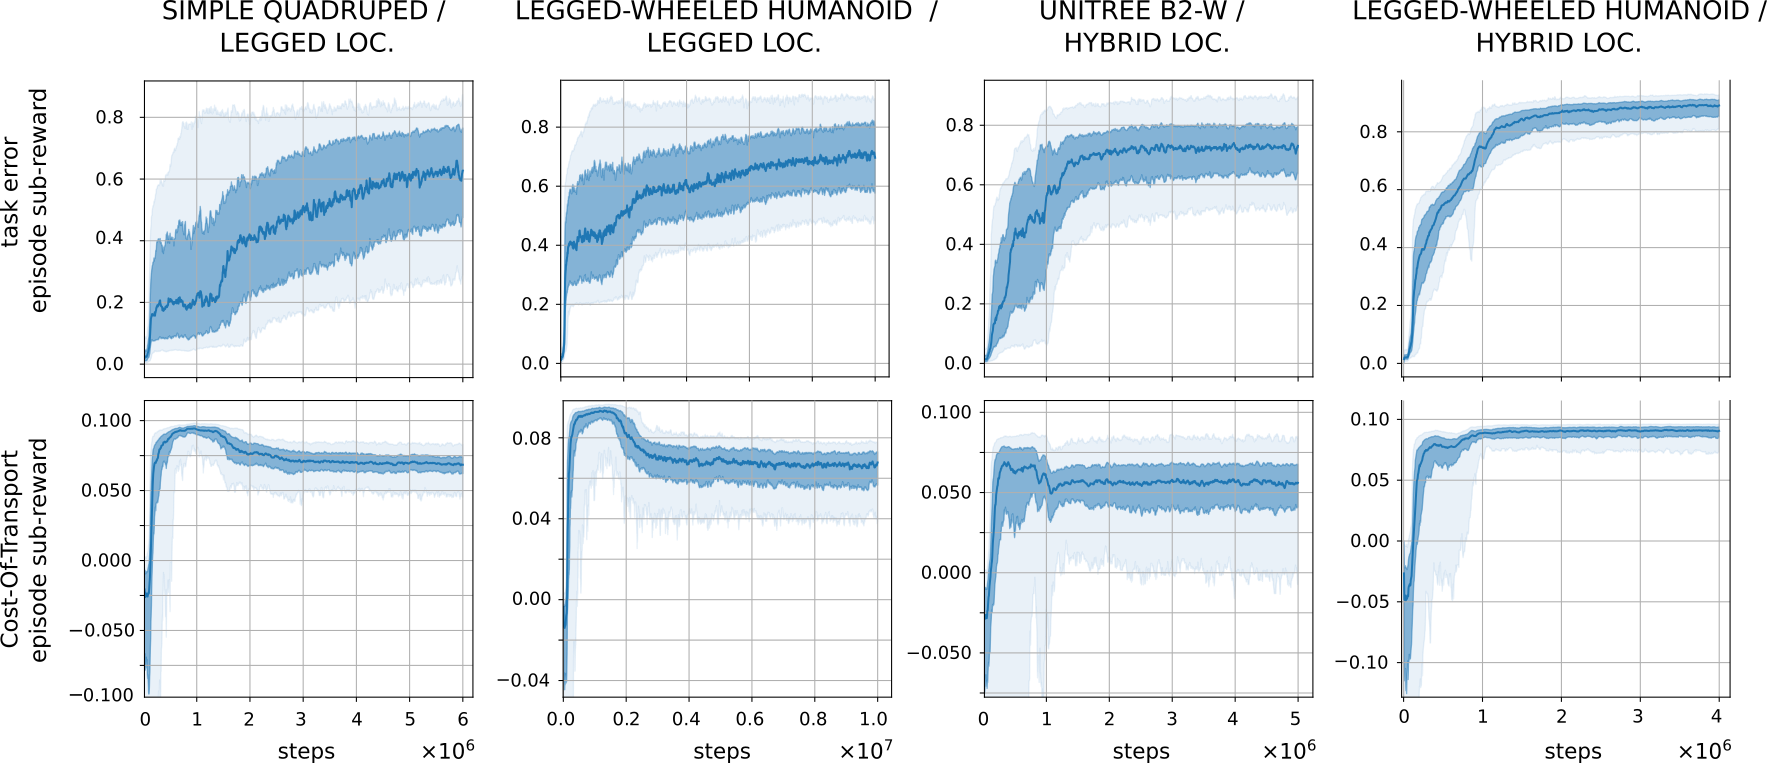
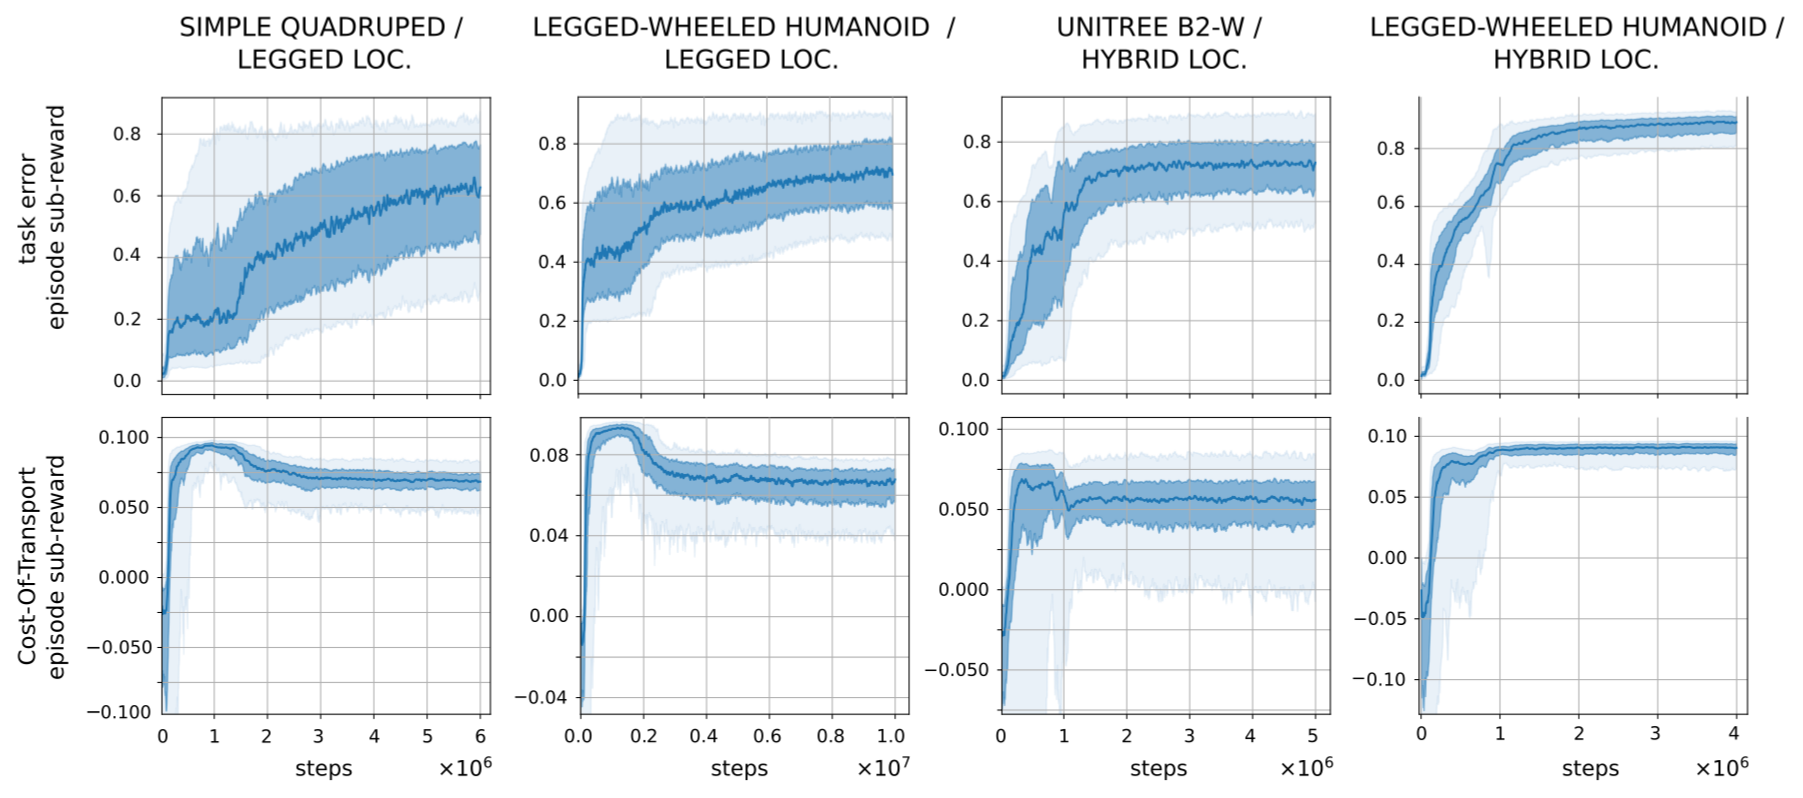
added gifs and fixed images

Changed region(s): [[0.0, 0.0, 0.996, 0.9948], [0.747, 0.0, 1.0, 0.0904], [0.8715, 0.4823, 0.9649, 0.5125]]

diff --git a/README.md b/README.md
@@ -17,6 +17,13 @@ Reinforcement Learning-Augmented Model Predictive Control *at scale* for legged 
 </p>
 
 - **Domain adaptability** – thanks to MPC's robustness, successful sim-to-sim and sim-to-real zero-shot transfer *without any domain randomization* (no contact properties, inertial, timing randomizations).
+<p align="center">
+  <img src="docs/sim2sim_gen.gif" alt="sim-to-sim_mj" width="400">
+</p>
+<p align="center">
+  <img src="docs/sim2real_centauro_wheeled.gif" alt="sim-to-reall, sim-to-real" width="200">
+  <img src="docs/sim2real_centauro_legged.gif" alt="sim-to-realw, sim-to-real" width="200">
+</p>
 
 - **Robot adaptability** – validated on robots with *different morphologies and weight distributions* (30-120 Kg), with standard legged and *hybrid locomotion* tasks.
 
@@ -32,6 +39,19 @@ Reinforcement Learning-Augmented Model Predictive Control *at scale* for legged 
 <p align="center">
   <img src="docs/hybrid_quadruped_fake_pos_track.gif" alt="sim-to-sim, sim-to-real" width="300">
 </p>
+
+- Easily extensible to **unstructured** environments
+
+  Non-flat terrain example:
+  <p align="center">
+    <img src="docs/step_pyr_centauro_percep.gif" alt="sim-to-sim, sim-to-real" width="350">
+  </p>
+  
+  Enabled by
+    - Raw heightmap in observation
+    - Granted agent control of feet clearance, landing height and flight duration 
+
+
 
 ## Software
 <p align="center">
